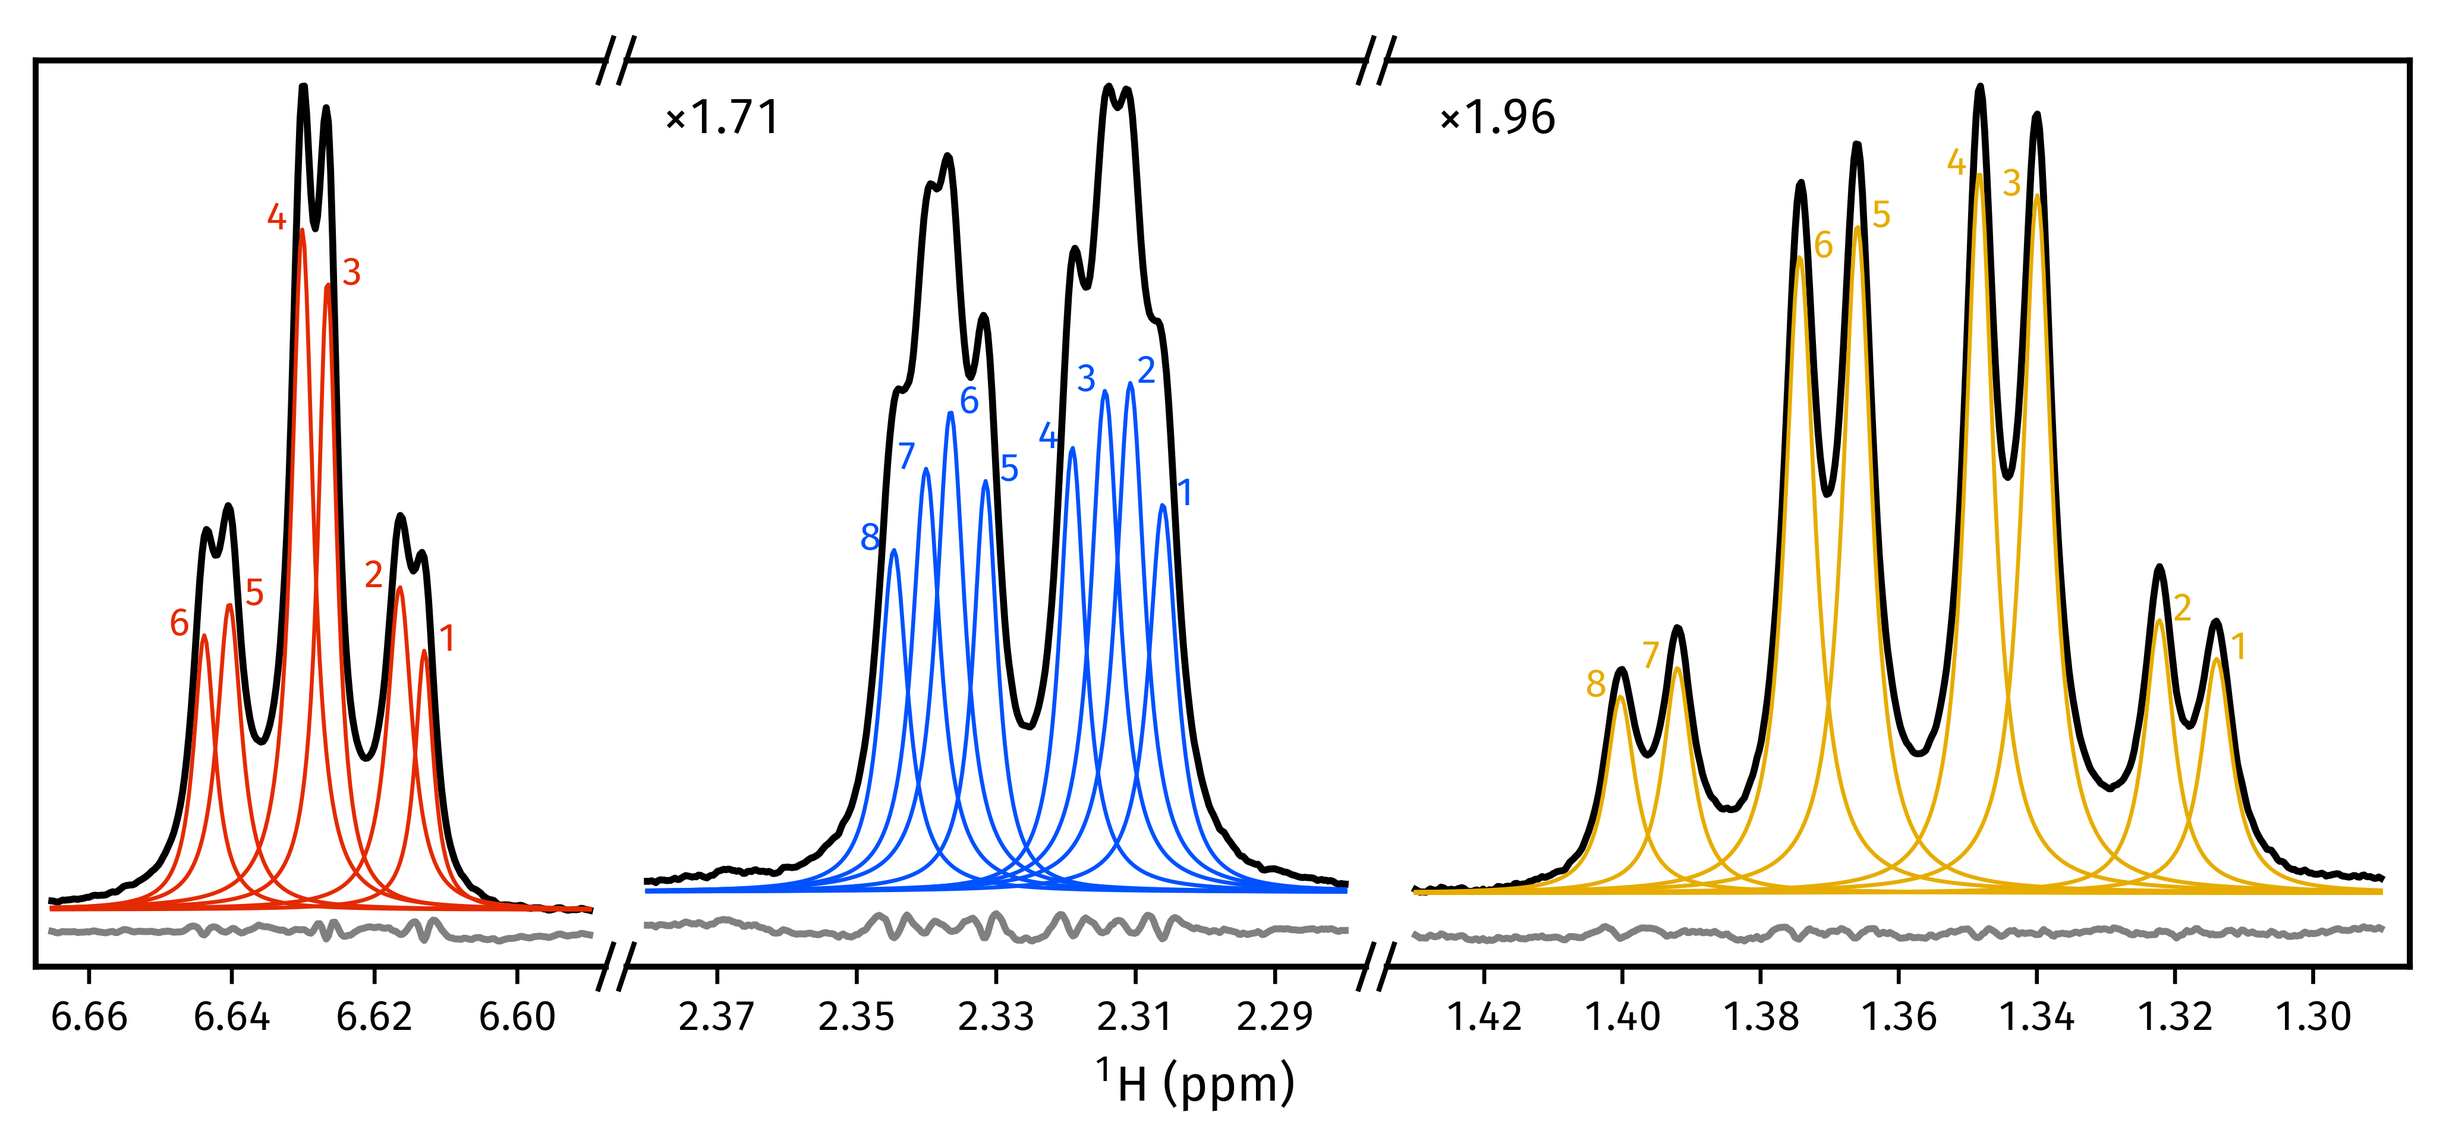
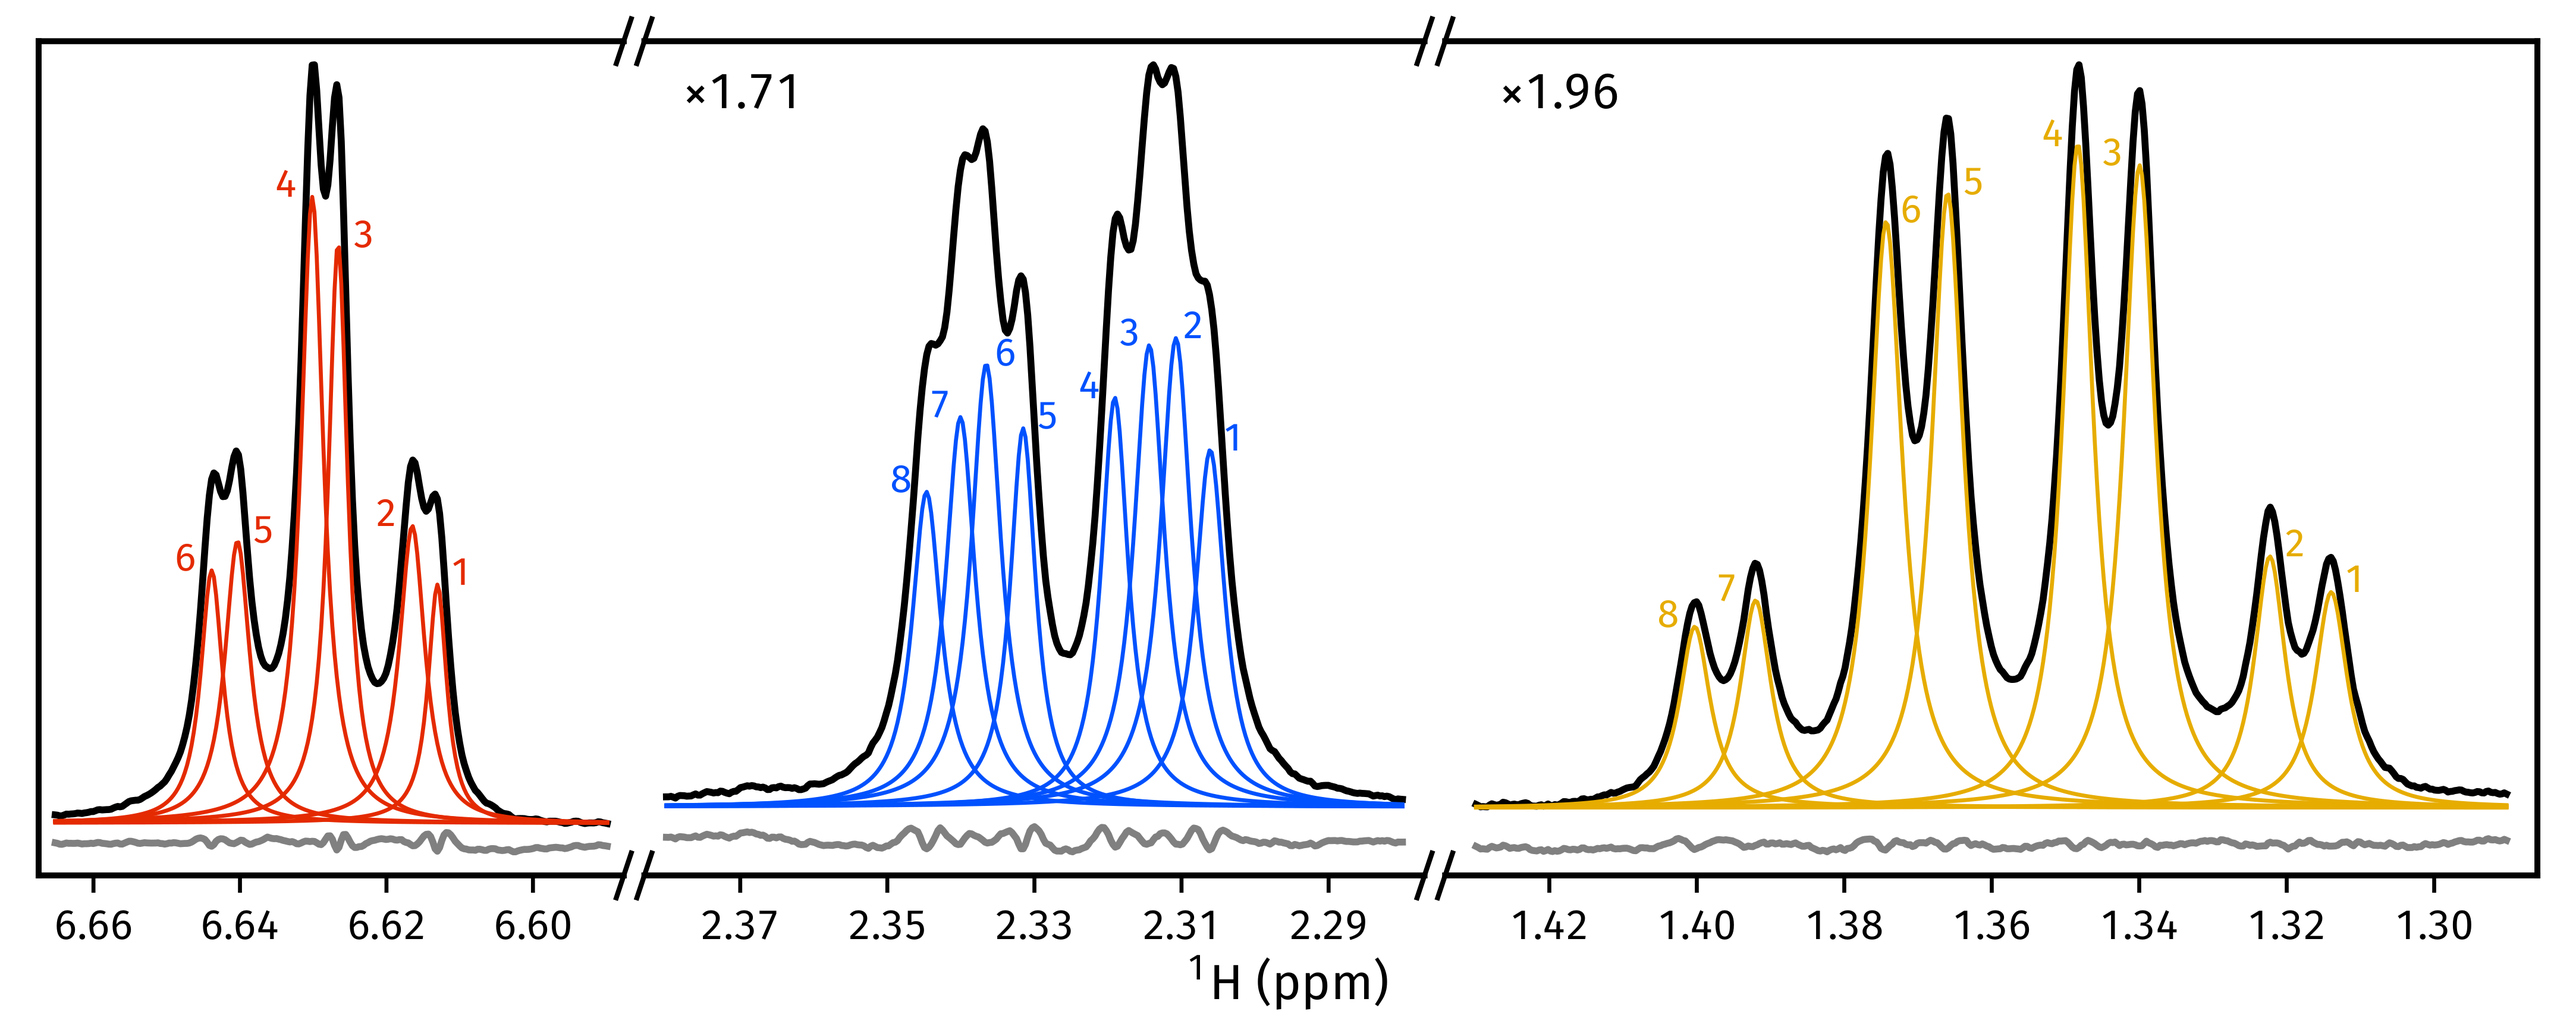
Slight tweaks to ex1 code.

Changed region(s): [[0.0, 0.0312, 0.9954, 0.966]]

diff --git a/examples/ex1.py b/examples/ex1.py
@@ -1,13 +1,16 @@
 # ex1.py
 # Simon Hulse
 # simon.hulse@chem.ox.ac.uk
-# Last Edited: Thu 09 Jun 2022 19:50:20 BST
+# Last Edited: Thu 09 Jun 2022 23:41:52 BST
 
 # EXAMPLE 1:
 # Estimation applied to 3 selected regions of a 1D andrographolide proton spectrum
 
 from pathlib import Path
+import matplotlib as mpl
 import nmrespy as ne
+
+mpl.rcdefaults()
 
 BESPOKE_PLOT = True
 
@@ -57,22 +60,22 @@ for region, plot in zip(regions, plots):
 # ===============================================================================
 
 # Below, I generate a more sopisticated "publication-worthy" figure.
-# If you do not wish to run tbhis code, change line 14 to `BESPOKE_PLOT = False`.
+# If you wish to run this code, change line 14 to `BESPOKE_PLOT = True`.
 
 if not BESPOKE_PLOT:
     exit()
-else:
-    import matplotlib.pyplot as plt
-    import numpy as np
 
-plt.style.use("matplotlibrc")
+import matplotlib.pyplot as plt  # noqa: E402
+import numpy as np  # noqa: E402
+mpl.rc_file_defaults()
+
 COLORS = plt.rcParams["axes.prop_cycle"].by_key()["color"]
 FIGWIDTH = 7.22  # inches
 FIGHEIGHT = 0.4 * FIGWIDTH
-B, T, R, L = 0.1, 0.98, 0.98, 0.05  # co-ords of Bottom, Top, Right and Left of axes
+B, T, R, L = 0.15, 0.96, 0.985, 0.015  # co-ords of Bottom, Top, Right and Left of axes
 HSEP = 0.008  # horizontal separation of region panels
 RESIDUAL_SHIFT = -3000
-DISPS = iter(  # Label displacements for their default
+DISPS = iter(  # Label displacements from their default
     [
         # Plot 1
         -0.002,
@@ -107,7 +110,7 @@ def get_axes_geometries():
     region_widths = [r[0] - r[1] for r in regions]
     width_sum = sum(region_widths)
     widths = [
-        (rw / width_sum) * (R - L) - (i * HSEP) for i, rw in enumerate(region_widths)
+        (rw / width_sum) * (R - L - 2 * HSEP) for rw in region_widths
     ]
     lefts = [L + sum(widths[:i]) + (i * HSEP) for i in range(3)]
     return [(lf, B, w, T - B) for lf, w in zip(lefts, widths)]
@@ -161,19 +164,6 @@ def get_line_label_info(plots):
 
     return full_info
 
-# d["labels"].extend(
-#      [
-#          {
-#              "x": label.get_position()[0] + ld[0],
-#              "y": label.get_position()[1] + ld[1],
-#              "text": label.get_text(),
-#              "color": next(osccols),
-#          }
-#          for label, ld in zip(nlpplot.labels.values(), lab_disps)
-#      ]
-#  )
-#  info.append(d)
-
 
 def plot_lines(axs, info):
     for ax, inf in zip(axs, info):
@@ -196,6 +186,7 @@ def finishing_touches(fig, axs):
             continue
         ax.text(0.05, 0.92, f"$\\times {sf:.2f}", transform=ax.transAxes)
 
+    # Axis ticks
     for i, ax in enumerate(axs):
         low_lim, high_lim = ax.get_xlim()
         low_tick = low_lim + 0.02 - (low_lim % 0.02)
@@ -206,11 +197,14 @@ def finishing_touches(fig, axs):
         nticks = round(((high_tick - low_tick) / 0.02) + 1)
         ticks = [low_tick + i * 0.02 for i in range(nticks)]
         ax.set_xticks(ticks)
+        ax.set_yticks([])
+
+        # Flip x-axis limits (NMR convention is for decrasing shifts from right to left)
         ax.set_xlim(reversed(ax.get_xlim()))
 
     fig.text(
         0.5,
-        -0.03,
+        0.03,
         "$^{1}$H (ppm)",
         transform=fig.transFigure,
         horizontalalignment="center",

diff --git a/examples/ex1_output/result.tex b/examples/ex1_output/result.tex
@@ -31,7 +31,7 @@ urlcolor   = urlblue,%
 {\includegraphics[scale=0.5]{/home/simon/Documents/DPhil/projects/spectral_estimation/NMR-EsPy/nmrespy/images/nmrespy_full.png}}
 \end{minipage}
 \end{figure}
-\texttt{19:47:01 09-06-22}
+\texttt{23:35:27 09-06-22}
 
 Andrographolide dataset
 
